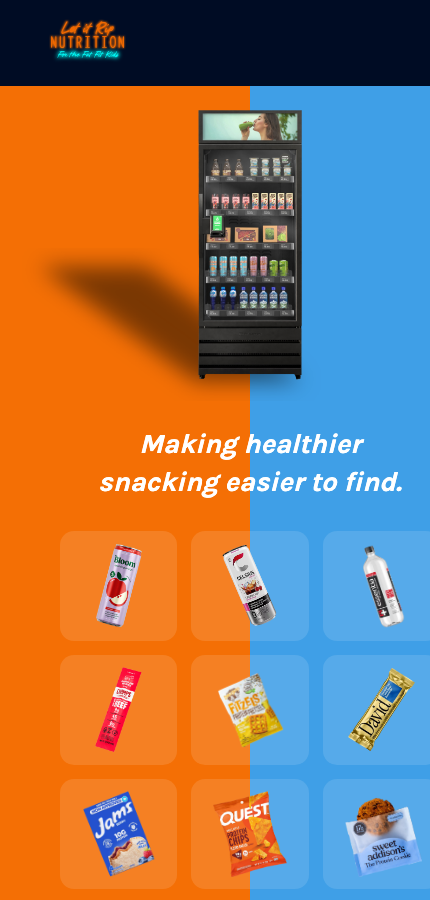
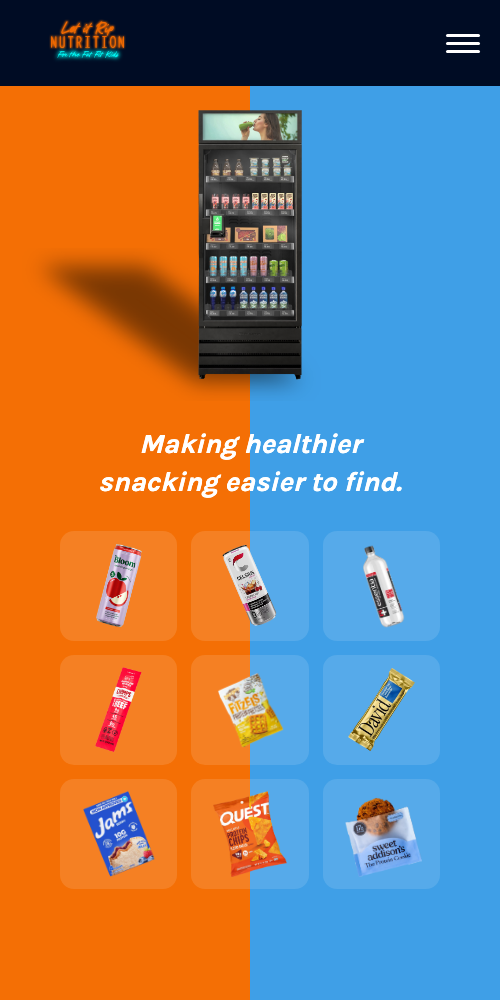
Fix genuinely broken mobile screenshot: regenerated at safe width
The previous mobile screenshot was captured at 430px, which triggers
a known headless-Chrome-only rendering bug in this environment
(elements/backgrounds render incorrectly below ~440px; confirmed
earlier in this project that real phone browsers don't have this
issue). That produced a skewed 58/42 orange/blue split instead of
the correct 50/50. Regenerated at the verified-safe 500px width,
confirmed exactly 50/50 by measuring pixel colors directly.

diff --git a/README.md b/README.md
@@ -7,7 +7,7 @@ A fully responsive marketing website for Let It Rip Nutrition, a company that pl
 ![Homepage desktop view](screenshots/homepage-desktop.png?v=2)
 
 <p align="center">
-  <img src="screenshots/homepage-mobile.png?v=2" alt="Homepage mobile view" width="260" />
+  <img src="screenshots/homepage-mobile.png?v=3" alt="Homepage mobile view" width="260" />
 </p>
 
 ## Overview
